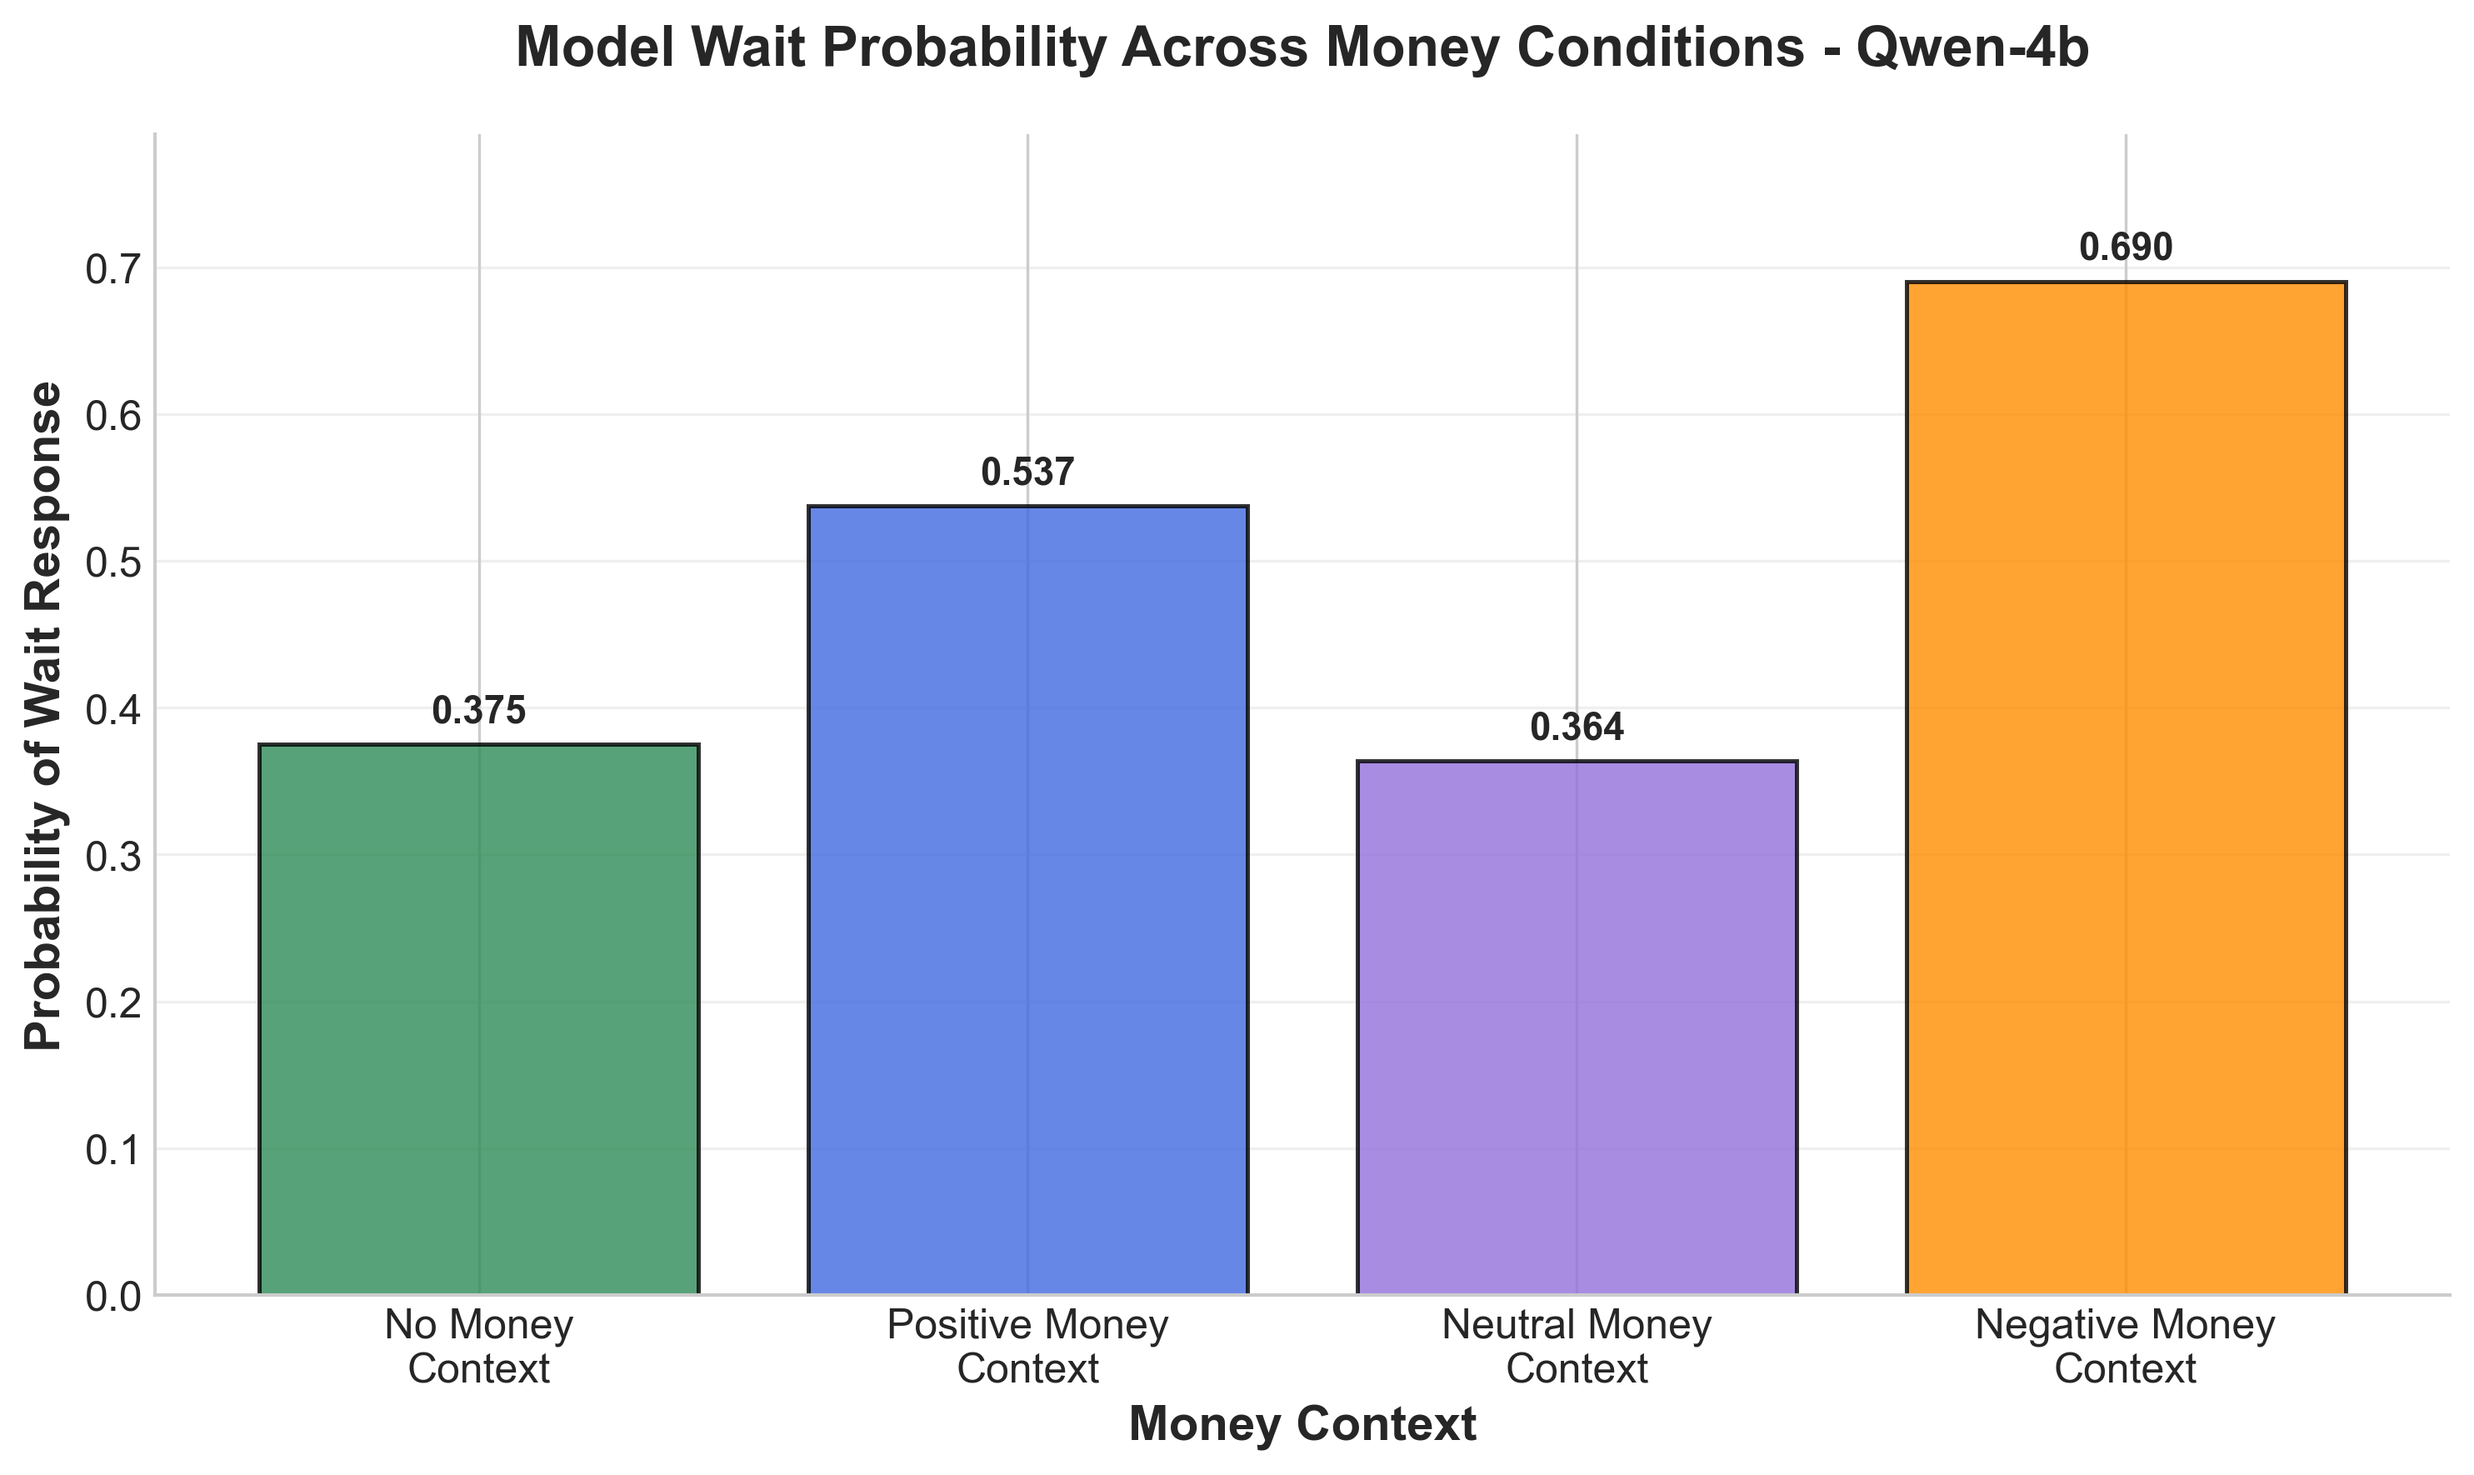
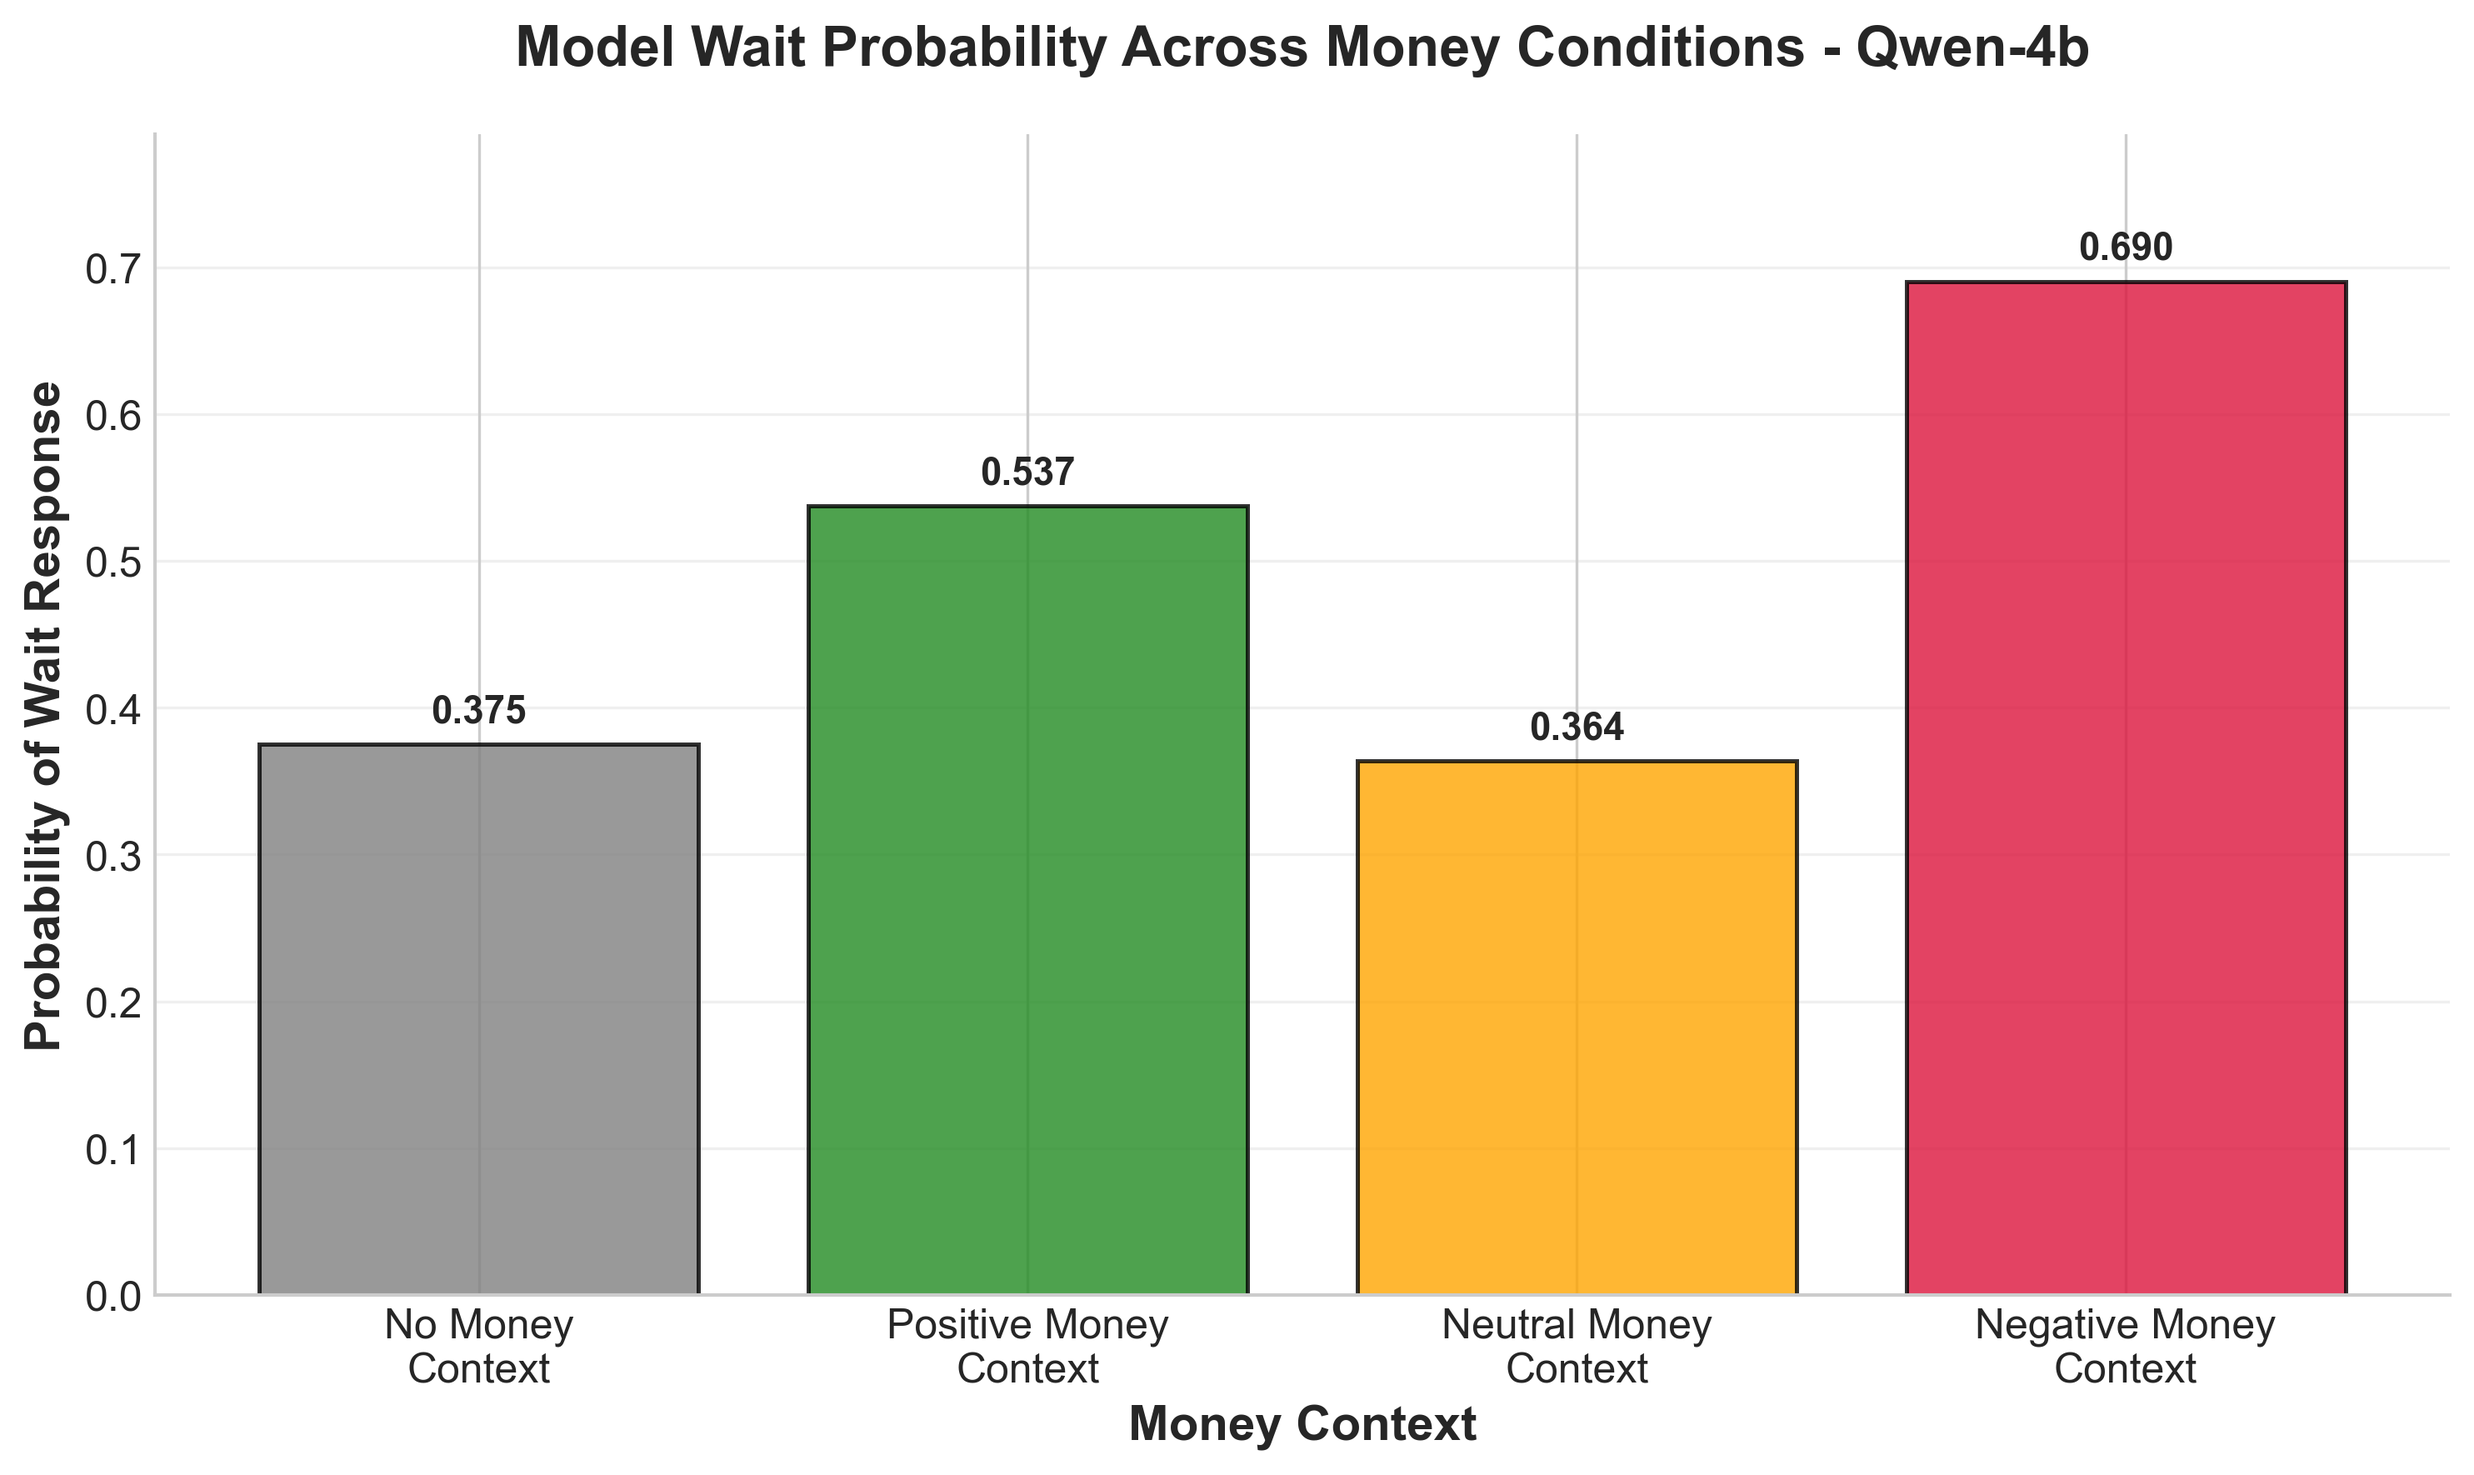
adjust colors

diff --git a/src/analysis/trends_analysis.py b/src/analysis/trends_analysis.py
@@ -197,7 +197,7 @@ def compare_mean_by_prefix_type(model_name: str, game: str):
 
     # Define custom order and colors for categories to match other figures
     category_order = ["none", "positive_money", "neutral_money", "negative_money"]
-    colors = ["#2E8B57", "#4169E1", "#9370DB", "#FF8C00"]  # SeaGreen, RoyalBlue, MediumPurple, DarkOrange
+    colors = ["#808080", "#228B22", "#FFA500", "#DC143C"]  # Grey, ForestGreen, Orange, Crimson
 
     # Reorder data to match the desired order
     ordered_prefixes = [prefix for prefix in category_order if prefix in means_by_prefix]
@@ -276,7 +276,7 @@ def compare_all_results_by_prefix_type(model_name: str, game: str):
     # Create the plot
     plt.figure(figsize=(12, 8))
 
-    colors = {"none": "#2E8B57", "positive_money": "#4169E1", "neutral_money": "#9370DB", "negative_money": "#FF8C00"}
+    colors = {"none": "#808080", "positive_money": "#228B22", "neutral_money": "#FFA500", "negative_money": "#DC143C"}
 
     for prefix in PXS:
         df_for_prefix = df[df["prefix_type"] == prefix]

diff --git a/src/visuals/non_reasoning_results/create_figures.py b/src/visuals/non_reasoning_results/create_figures.py
@@ -28,7 +28,7 @@ def create_money_category_graph(df):
 
     # Define custom order and colors for categories
     category_order = ["none", "positive_money", "neutral_money", "negative_money"]
-    colors = ["#2E8B57", "#4169E1", "#9370DB", "#FF8C00"]  # SeaGreen, RoyalBlue, MediumPurple, DarkOrange
+    colors = ["#808080", "#228B22", "#FFA500", "#DC143C"]  # Grey, ForestGreen, Orange, Crimson
 
     # Create the plot
     fig, ax = plt.subplots(figsize=(10, 6))
@@ -108,7 +108,7 @@ def create_money_vs_none_graph(df):
     fig, ax = plt.subplots(figsize=(8, 6))
 
     # Define colors in the order they will appear
-    colors = ["#2E8B57", "#DC143C"]  # No Money Context = green, Money Context = red
+    colors = ["#808080", "#1E90FF"]  # No Money Context = grey, Money Context = blue
 
     # Create bars
     x_pos = np.arange(len(condition_stats))
